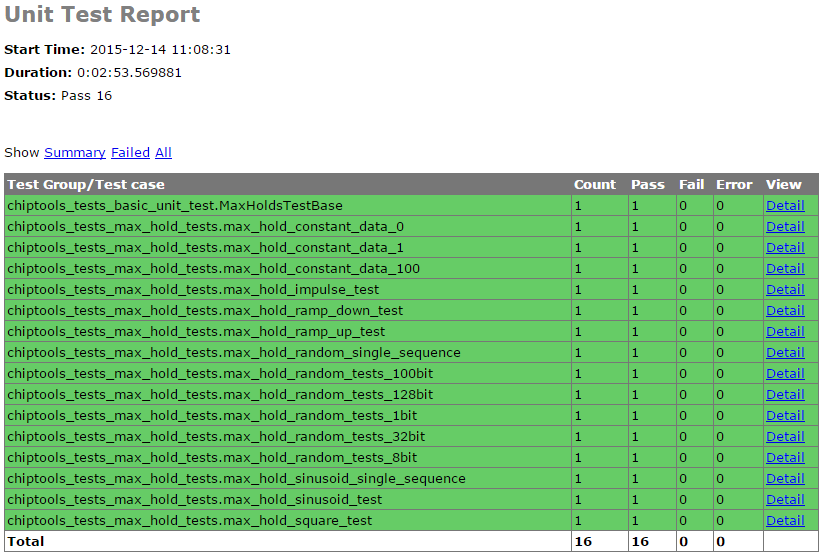
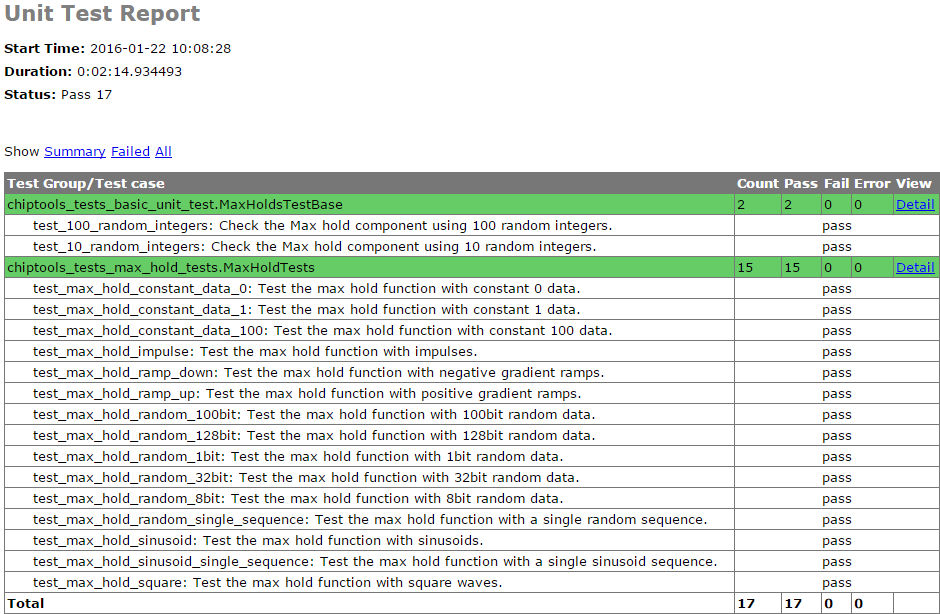
Update Max Hold example and documentation to reflect test suite changes.

diff --git a/examples/max_hold/basic_unit_test.py b/examples/max_hold/basic_unit_test.py
@@ -30,15 +30,25 @@ class MaxHoldsTestBase(ChipToolsTest):
     library = 'lib_tb_max_hold'
 
     def setUp(self):
+        """Place any code that is required to prepare simulator inputs in this
+        method."""
+        # Set the paths for the input and output files using the
+        # 'simulation_root' attribute as the working directory
+        self.input_path = os.path.join(self.simulation_root, 'input.txt')
+        self.output_path = os.path.join(self.simulation_root, 'output.txt')
 
-        # Generate a list of 10 random integers
-        self.values = [random.randint(0, 2**32-1) for i in range(10)]
+    def tearDown(self):
+        """Insert any cleanup code to remove generated files in this method."""
+        os.remove(self.input_path)
+        os.remove(self.output_path)
 
-        # Get the path to the testbench input file.
-        simulator_input_path = os.path.join(self.simulation_root, 'input.txt')
+    def run_random_data_test(self, n):
+
+        # Generate a list of n random integers
+        self.values = [random.randint(0, 2**32-1) for i in range(n)]
 
         # Write the values to the testbench input file
-        with open(simulator_input_path, 'w') as f:
+        with open(self.input_path, 'w') as f:
             for value in self.values:
                 f.write(
                     '{0} {1}\n'.format(
@@ -47,29 +57,30 @@ class MaxHoldsTestBase(ChipToolsTest):
                     )
                 )
 
-    def test_output(self):
-        """Check that the Max Hold component correctly locates the maximum
-        value."""
         # Run the simulation
         return_code, stdout, stderr = self.simulate()
+        self.assertEqual(return_code, 0)
 
-        # Get the path to the testbench input file.
-        simulator_output_path = os.path.join(
-            self.simulation_root,
-            'output.txt'
-        )
-
+        # Read the simulation output
         output_values = []
-        with open(simulator_output_path, 'r') as f:
+        with open(self.output_path, 'r') as f:
             data = f.readlines()
         for valueIdx, value in enumerate(data):
             # testbench response
             output_values.append(int(value, 2))  # Binary to integer
 
-        # Use Python to work out the expected result
+        # Use Python to work out the expected result from the original imput
         max_hold = [
             max(self.values[:i+1]) for i in range(len(self.values))
         ]
 
         # Compare the expected result to what the Testbench returned:
         self.assertListEqual(output_values, max_hold)
+
+    def test_10_random_integers(self):
+        """Check the Max hold component using 10 random integers."""
+        self.run_random_data_test(10)
+
+    def test_100_random_integers(self):
+        """Check the Max hold component using 100 random integers."""
+        self.run_random_data_test(100)

diff --git a/docs/max_hold.rst b/docs/max_hold.rst
@@ -143,7 +143,7 @@ added to the project using the **add_unittest** method:
 
 .. code-block:: python
 
-    # Some unit tests have been written for the max_hold component and stored in
+    # Unit tests have been written for the max_hold component and stored in
     # max_hold_tests.py. The Project class provides an 'add_unittest' method for
     # adding unit tests to the project, it expects a path to the unit test file.
     project.add_unittest('max_hold_tests.py')
@@ -236,7 +236,7 @@ using the **load_project** command:
     $ chiptools
     (cmd) load_project max_hold.xml
 
-Simulation and  Test
+Simulation and Test
 --------------------
 
 To test the Max Hold component an accompanying VHDL testbench, 
@@ -278,7 +278,7 @@ the testbench:
 
     class MaxHoldsTestBase(ChipToolsTest):
         # Specify the duration your test should run for in seconds.
-        # If 0 is used, the simulation will run until it self-terminates.
+        # If the test should run until the testbench aborts itself use 0.
         duration = 0
         # Testbench generics are defined in this dictionary.
         # In this example we set the 'width' generic to 32, it can be overridden
@@ -292,67 +292,81 @@ the testbench:
 These attributes provide the basic information required by ChipTools to execute
 the testbench.
 
-Tests are executed in the following sequence when using the ChipToolsTest class:
+Tests are executed using the following sequence when using the Python Unittest
+framework:
 
-    #. Execute the unit test class **simulationSetup** function if defined.
-    #. Invoke and run simulator in console mode using the simulator attributes.
+    #. Execute the unit test class **setUp** function if defined.
     #. Execute the test case (a test case is any class method with a 'test prefix').
-    #. Execute the unit test class **simulatorTearDown** function if defined.
+    #. Execute the unit test class **tearDown** function if defined.
 
 If the unit test class provides multiple testcases they can be executed
 individually or as a batch in ChipTools. The sequence above is executed for
 each individual test case.
 
-The **simulationSetup** function should be overloaded to run any **preparation**
-code your testbench may require before it is executed. For testing the Max Hold
-component we can use this function to write the input file for the testbench 
-using different stimulus waveforms that we have created in Python:
+The **setUp** function executes before each test and can be used to prepare any
+inputs that do not change for each test. In this example we will simply use the
+setUp function to prepare the test environment by defining paths to the input
+and output files to be used by the testbench:
 
 .. code-block:: python
 
-    def simulationSetUp(self):
-        """The ChipTools test framework will call the simulationSetup method
-        prior to executing the simulator. Place any code that is required to
-        prepare simulator inputs in this method."""
+    def setUp(self):
+        """Place any code that is required to prepare simulator inputs in this
+        method."""
+        # Set the paths for the input and output files using the
+        # 'simulation_root' attribute as the working directory
+        self.input_path = os.path.join(self.simulation_root, 'input.txt')
+        self.output_path = os.path.join(self.simulation_root, 'output.txt')
 
-        # Generate a list of 10 random integers
-        self.values = [random.randint(0, 2**32-1) for i in range(10)]
+Similarly, the **tearDown** function executes at the end of each test, so we can
+use this to remove any files that were generated during the test:
 
-        # Get the path to the testbench input file.
-        simulator_input_path = os.path.join(self.simulation_root, 'input.txt')
+.. code-block:: python
+
+    def tearDown(self):
+        """Insert any cleanup code to remove generated files in this method."""
+        os.remove(self.input_path)
+        os.remove(self.output_path)
+
+To execute our tests we will create a function that performs the following
+operations:
+
+#. Create an array of N random integers
+#. Write the array of integers to the input stimulus file
+#. Execute the simulation and check that the return code is 0
+#. Read the output data generated by the simulation
+#. Compare the output data to our Python model of the Max Hold function.
+
+.. code-block:: python
+
+    def run_random_data_test(self, n):
+
+        # Generate a list of n random integers
+        self.values = [random.randint(0, 2**32-1) for i in range(n)]
 
         # Write the values to the testbench input file
-        with open(simulator_input_path, 'w') as f:
+        with open(self.input_path, 'w') as f:
             for value in self.values:
                 f.write(
                     '{0} {1}\n'.format(
                         '0001',  # write instruction opcode
-                        bin(value)[2:].zfill(32), # write 32bit data
+                        bin(value)[2:].zfill(32),  # write 32bit data
                     )
                 )
 
-Our tests will be implemented in methods with a **test** prefix. As the test
-methods are executed after the simulator has finished, our tests will involve
-reading the simulator output file and comparing it to what our internal model
-expects given the same input waveform:
+        # Run the simulation
+        return_code, stdout, stderr = self.simulate()
+        self.assertEqual(return_code, 0)
 
-.. code-block:: python
-
-    def test_output(self):
-        """Check that the Max Hold component correctly locates the maximum
-        value."""
-
-        # Get the path to the testbench input file.
-        simulator_output_path = os.path.join(self.simulation_root, 'output.txt')
-
+        # Read the simulation output
         output_values = []
-        with open(simulator_output_path, 'r') as f:
+        with open(self.output_path, 'r') as f:
             data = f.readlines()
         for valueIdx, value in enumerate(data):
             # testbench response
             output_values.append(int(value, 2))  # Binary to integer
 
-        # Use Python to work out the expected result
+        # Use Python to work out the expected result from the original imput
         max_hold = [
             max(self.values[:i+1]) for i in range(len(self.values))
         ]
@@ -360,19 +374,32 @@ expects given the same input waveform:
         # Compare the expected result to what the Testbench returned:
         self.assertListEqual(output_values, max_hold)
 
+Now we can add extra functions to our class using the 'test' prefix to execute
+**run_random_data_test** with different parameters:
+
+.. code-block:: python
+
+    def test_10_random_integers(self):
+        """Check the Max hold component using 10 random integers."""
+        self.run_random_data_test(10)
+
+    def test_100_random_integers(self):
+        """Check the Max hold component using 100 random integers."""
+        self.run_random_data_test(100)
+
 The above example is saved as **basic_unit_test.py** in the Max Hold 
 example folder. We can run this test by invoking ChipTools in the example
 folder, loading the **max_hold_basic_test.xml** project and then adding and running the
-testsuite:
-
+testsuite (simulator output has been hidden for presentation purposes):
 
 .. code-block:: bash
 
     $ chiptools
     (Cmd) load_project max_hold_basic_test.xml
     (Cmd) run_tests
-    ok test_output (chiptools_tests_basic_unit_test.MaxHoldsTestBase)
-    Time Elapsed: 0:00:05.846975
+    ok test_100_random_integers (chiptools_tests_basic_unit_test.MaxHoldsTestBase)
+    ok test_10_random_integers (chiptools_tests_basic_unit_test.MaxHoldsTestBase)
+    Time Elapsed: 0:00:11.967197
     (Cmd)
 
 Unit Test Report
